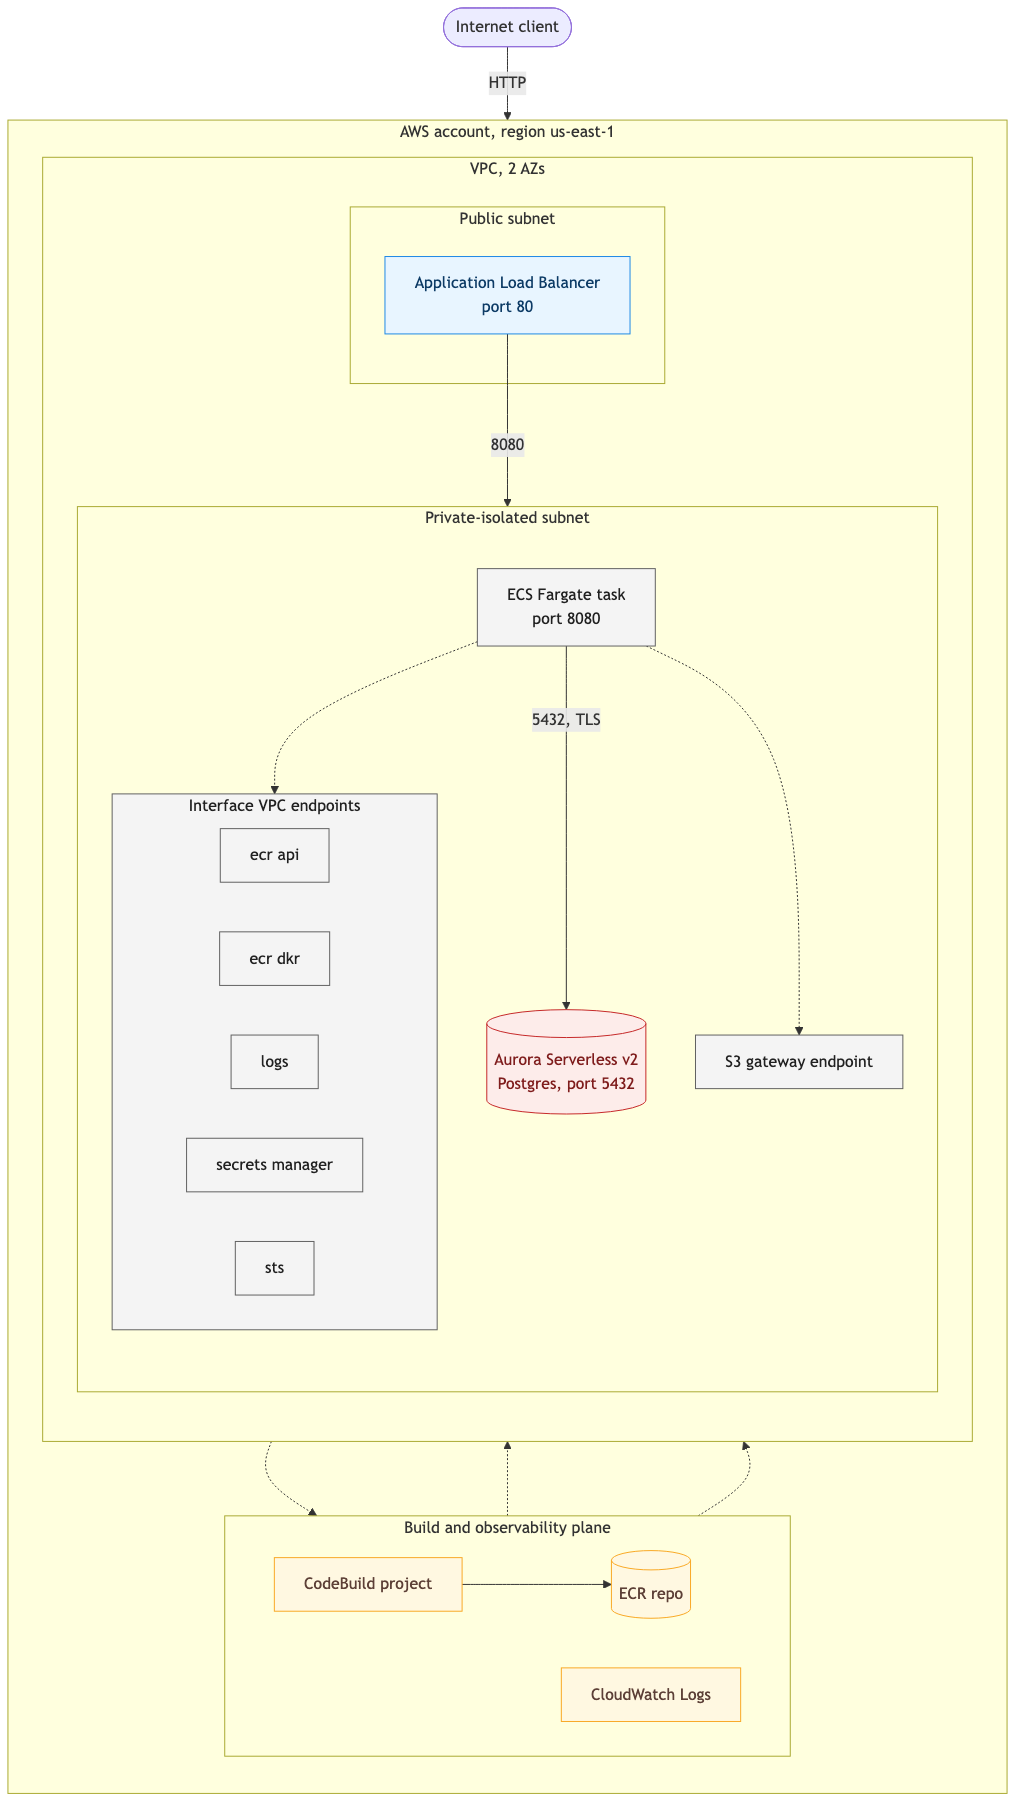
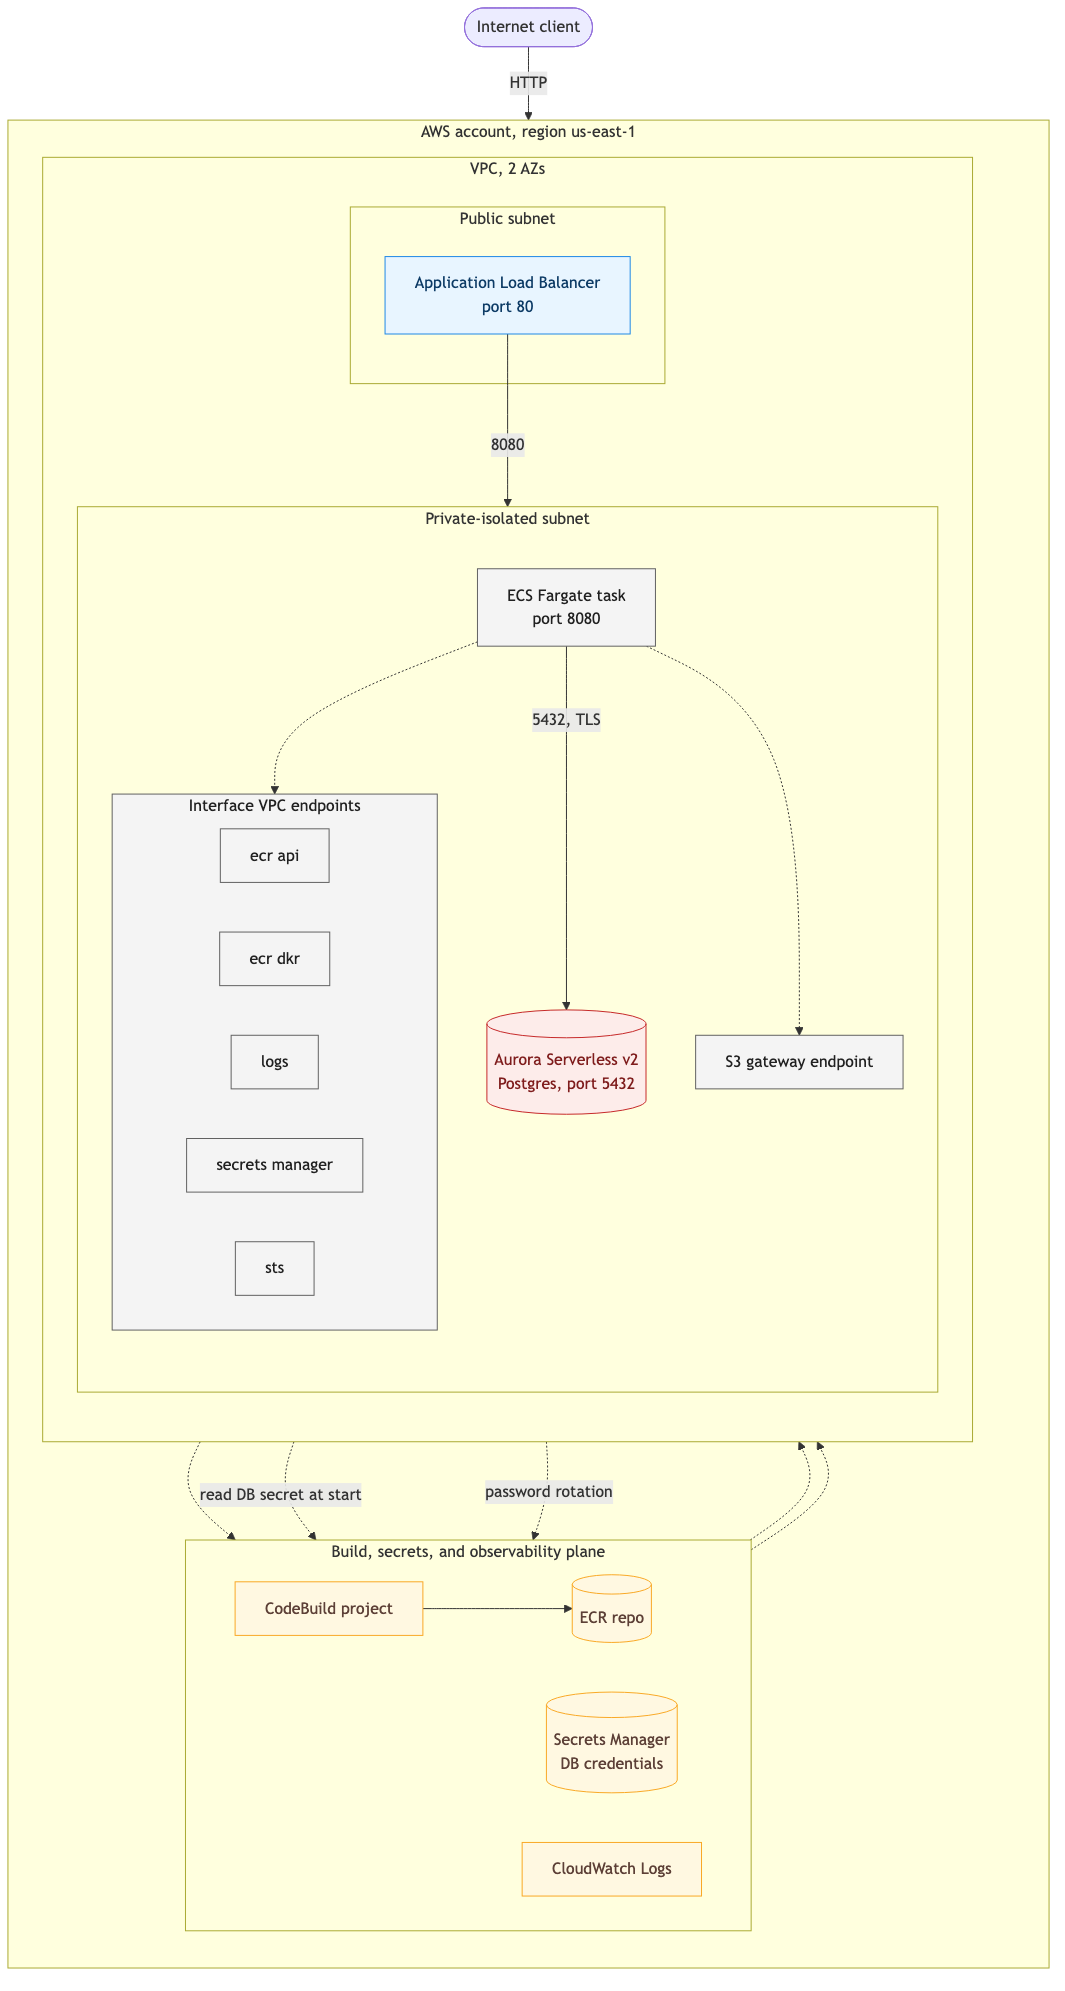
fix ecs deploy

diff --git a/Completed/Sources/SwiftServerTodos/Database.swift b/Completed/Sources/SwiftServerTodos/Database.swift
@@ -5,12 +5,9 @@ import Foundation
 import Vapor
 
 func configureDatabase(app: Application, config: ConfigReader) async throws {
-    let postgresURL = try resolvePostgresURL(config)
+    let env = ProcessInfo.processInfo.environment
+    let host = env["DB_HOST"] ?? "localhost"
 
-    // Amazon RDS and Aurora require TLS. Local Postgres in docker-compose
-    // does not. Branch on the hostname so the same code path works in both
-    // environments.
-    let host = postgresURL.host ?? "localhost"
     let tls: PostgresConnection.Configuration.TLS
     switch host {
     case "localhost", "postgres":
@@ -19,56 +16,20 @@ func configureDatabase(app: Application, config: ConfigReader) async throws {
         tls = try .require(pgAmazonRDSTLSConfiguration(logger: app.logger))
     }
 
-    let sqlConfig = try SQLPostgresConfiguration(url: postgresURL).applyingTLS(tls)
+    let sqlConfig = SQLPostgresConfiguration(
+        hostname: host,
+        port: SQLPostgresConfiguration.ianaPortNumber,
+        username: env["DB_USER"] ?? "postgres",
+        password: env["DB_PASS"],
+        database: env["DB_NAME"] ?? "postgres",
+        tls: tls
+    )
     app.databases.use(.postgres(configuration: sqlConfig), as: .psql)
 
     app.migrations.add([
         Migrations.CreateTODOs()
     ])
     try await app.autoMigrate()
-}
-
-// Resolve the Postgres URL from configuration.
-//
-// Precedence:
-//   1. `POSTGRES_URL` set explicitly (used by local docker-compose and by
-//      anyone passing a full URL).
-//   2. Compose from `DB_HOST` / `DB_USER` / `DB_PASS` / `DB_NAME` when
-//      injected as individual env vars (used by the ECS task in AWS,
-//      where credentials come from Secrets Manager one field at a time).
-//   3. Fall back to the local docker-compose default.
-private func resolvePostgresURL(_ config: ConfigReader) throws -> URL {
-    if let url = config.string(forKey: "postgres.url", as: URL.self) {
-        return url
-    }
-
-    let env = ProcessInfo.processInfo.environment
-    if let host = env["DB_HOST"], !host.isEmpty {
-        let user = env["DB_USER"] ?? "postgres"
-        let password = env["DB_PASS"] ?? ""
-        let name = env["DB_NAME"] ?? "postgres"
-        let creds = password.isEmpty ? user : "\(user):\(password)"
-        let urlString = "postgres://\(creds)@\(host):5432/\(name)"
-        guard let url = URL(string: urlString) else {
-            throw Abort(.internalServerError, reason: "Invalid DB_* env values")
-        }
-        return url
-    }
-
-    return URL(string: "postgres://postgres@localhost:5432/postgres?sslmode=disable")!
-}
-
-extension SQLPostgresConfiguration {
-    fileprivate func applyingTLS(_ tls: PostgresConnection.Configuration.TLS) -> SQLPostgresConfiguration {
-        SQLPostgresConfiguration(
-            hostname: self.coreConfiguration.host ?? "localhost",
-            port: self.coreConfiguration.port ?? SQLPostgresConfiguration.ianaPortNumber,
-            username: self.coreConfiguration.username,
-            password: self.coreConfiguration.password,
-            database: self.coreConfiguration.database,
-            tls: tls
-        )
-    }
 }
 
 enum DB {

diff --git a/Sources/SwiftServerTodos/Database.swift b/Sources/SwiftServerTodos/Database.swift
@@ -4,20 +4,10 @@ import FluentPostgresDriver
 import Foundation
 import Vapor
 
-
 func configureDatabase(app: Application, config: ConfigReader) async throws {
-    let postgresConfig = config.scoped(to: "postgres")
-    let postgresURL = postgresConfig.string(
-        forKey: "url",
-        as: URL.self,
-        default: URL(string: "postgres://postgres@localhost:5432/postgres?sslmode=disable")!
-    )
+    let env = ProcessInfo.processInfo.environment
+    let host = env["DB_HOST"] ?? "localhost"
 
-
-    // Amazon RDS and Aurora require TLS. Local Postgres in docker-compose
-    // does not. Branch on the hostname so the same code path works in both
-    // environments.
-    let host = postgresURL.host ?? "localhost"
     let tls: PostgresConnection.Configuration.TLS
     switch host {
     case "localhost", "postgres":
@@ -26,43 +16,33 @@ func configureDatabase(app: Application, config: ConfigReader) async throws {
         tls = try .require(pgAmazonRDSTLSConfiguration(logger: app.logger))
     }
 
-
-    let sqlConfig = try SQLPostgresConfiguration(url: postgresURL).applyingTLS(tls)
+    let sqlConfig = SQLPostgresConfiguration(
+        hostname: host,
+        port: SQLPostgresConfiguration.ianaPortNumber,
+        username: env["DB_USER"] ?? "postgres",
+        password: env["DB_PASS"],
+        database: env["DB_NAME"] ?? "postgres",
+        tls: tls
+    )
     app.databases.use(.postgres(configuration: sqlConfig), as: .psql)
 
     app.migrations.add([
         Migrations.CreateTODOs()
     ])
-    try await app.autoMigrate()    
-}
-
-extension SQLPostgresConfiguration {
-    fileprivate func applyingTLS(_ tls: PostgresConnection.Configuration.TLS) -> SQLPostgresConfiguration {
-        SQLPostgresConfiguration(
-            hostname: self.coreConfiguration.host ?? "localhost",
-            port: self.coreConfiguration.port ?? SQLPostgresConfiguration.ianaPortNumber,
-            username: self.coreConfiguration.username,
-            password: self.coreConfiguration.password,
-            database: self.coreConfiguration.database,
-            tls: tls
-        )
-    }
+    try await app.autoMigrate()
 }
 
 enum DB {
     final class TODO: Model, @unchecked Sendable {
         static let schema = "todos"
 
-
         @ID(custom: "id", generatedBy: .user)
         var id: String?
-
 
         @Field(key: "contents")
         var contents: String
     }
 }
-
 
 enum Migrations {
     struct CreateTODOs: AsyncMigration {
@@ -72,7 +52,6 @@ enum Migrations {
                 .field("contents", .string, .required)
                 .create()
         }
-
 
         func revert(on database: Database) async throws {
             try await database

diff --git a/SwiftServerTodos.docc/codelistings/6-database.1.swift b/SwiftServerTodos.docc/codelistings/6-database.1.swift
@@ -5,17 +5,9 @@ import Foundation
 import Vapor
 
 func configureDatabase(app: Application, config: ConfigReader) async throws {
-    let postgresConfig = config.scoped(to: "postgres")
-    let postgresURL = postgresConfig.string(
-        forKey: "url",
-        as: URL.self,
-        default: URL(string: "postgres://postgres@localhost:5432/postgres?sslmode=disable")!
-    )
+    let env = ProcessInfo.processInfo.environment
+    let host = env["DB_HOST"] ?? "localhost"
 
-    // Amazon RDS and Aurora require TLS. Local Postgres in docker-compose
-    // does not. Branch on the hostname so the same code path works in both
-    // environments.
-    let host = postgresURL.host ?? "localhost"
     let tls: PostgresConnection.Configuration.TLS
     switch host {
     case "localhost", "postgres":
@@ -24,26 +16,20 @@ func configureDatabase(app: Application, config: ConfigReader) async throws {
         tls = try .require(pgAmazonRDSTLSConfiguration(logger: app.logger))
     }
 
-    let sqlConfig = try SQLPostgresConfiguration(url: postgresURL).applyingTLS(tls)
+    let sqlConfig = SQLPostgresConfiguration(
+        hostname: host,
+        port: SQLPostgresConfiguration.ianaPortNumber,
+        username: env["DB_USER"] ?? "postgres",
+        password: env["DB_PASS"],
+        database: env["DB_NAME"] ?? "postgres",
+        tls: tls
+    )
     app.databases.use(.postgres(configuration: sqlConfig), as: .psql)
 
     app.migrations.add([
         Migrations.CreateTODOs()
     ])
     try await app.autoMigrate()
-}
-
-extension SQLPostgresConfiguration {
-    fileprivate func applyingTLS(_ tls: PostgresConnection.Configuration.TLS) -> SQLPostgresConfiguration {
-        SQLPostgresConfiguration(
-            hostname: self.coreConfiguration.host ?? "localhost",
-            port: self.coreConfiguration.port ?? SQLPostgresConfiguration.ianaPortNumber,
-            username: self.coreConfiguration.username,
-            password: self.coreConfiguration.password,
-            database: self.coreConfiguration.database,
-            tls: tls
-        )
-    }
 }
 
 enum DB {

diff --git a/aws-infra/lib/service-stack.ts b/aws-infra/lib/service-stack.ts
@@ -113,6 +113,27 @@ export class ServiceStack extends cdk.Stack {
       vpcSubnets: { subnetType: ec2.SubnetType.PUBLIC },
     });
 
+    // The workshop uses plain HTTP on :80 because attendees do not own
+    // a shared domain to attach an ACM certificate to. In a real
+    // deployment, terminate TLS on the ALB with a :443 listener:
+    //
+    //   const cert = acm.Certificate.fromCertificateArn(
+    //     this, 'AlbCert', 'arn:aws:acm:us-east-1:ACCOUNT:certificate/...'
+    //   );
+    //   const httpsListener = this.loadBalancer.addListener('HttpsListener', {
+    //     port: 443,
+    //     protocol: elbv2.ApplicationProtocol.HTTPS,
+    //     certificates: [cert],
+    //     open: false,
+    //   });
+    //   httpsListener.addTargets(...);   // same target group as below
+    //   this.loadBalancer.addListener('HttpRedirect', {
+    //     port: 80,
+    //     protocol: elbv2.ApplicationProtocol.HTTP,
+    //     defaultAction: elbv2.ListenerAction.redirect({
+    //       protocol: 'HTTPS', port: '443', permanent: true,
+    //     }),
+    //   });
     const listener = this.loadBalancer.addListener('HttpListener', {
       port: 80,
       protocol: elbv2.ApplicationProtocol.HTTP,
